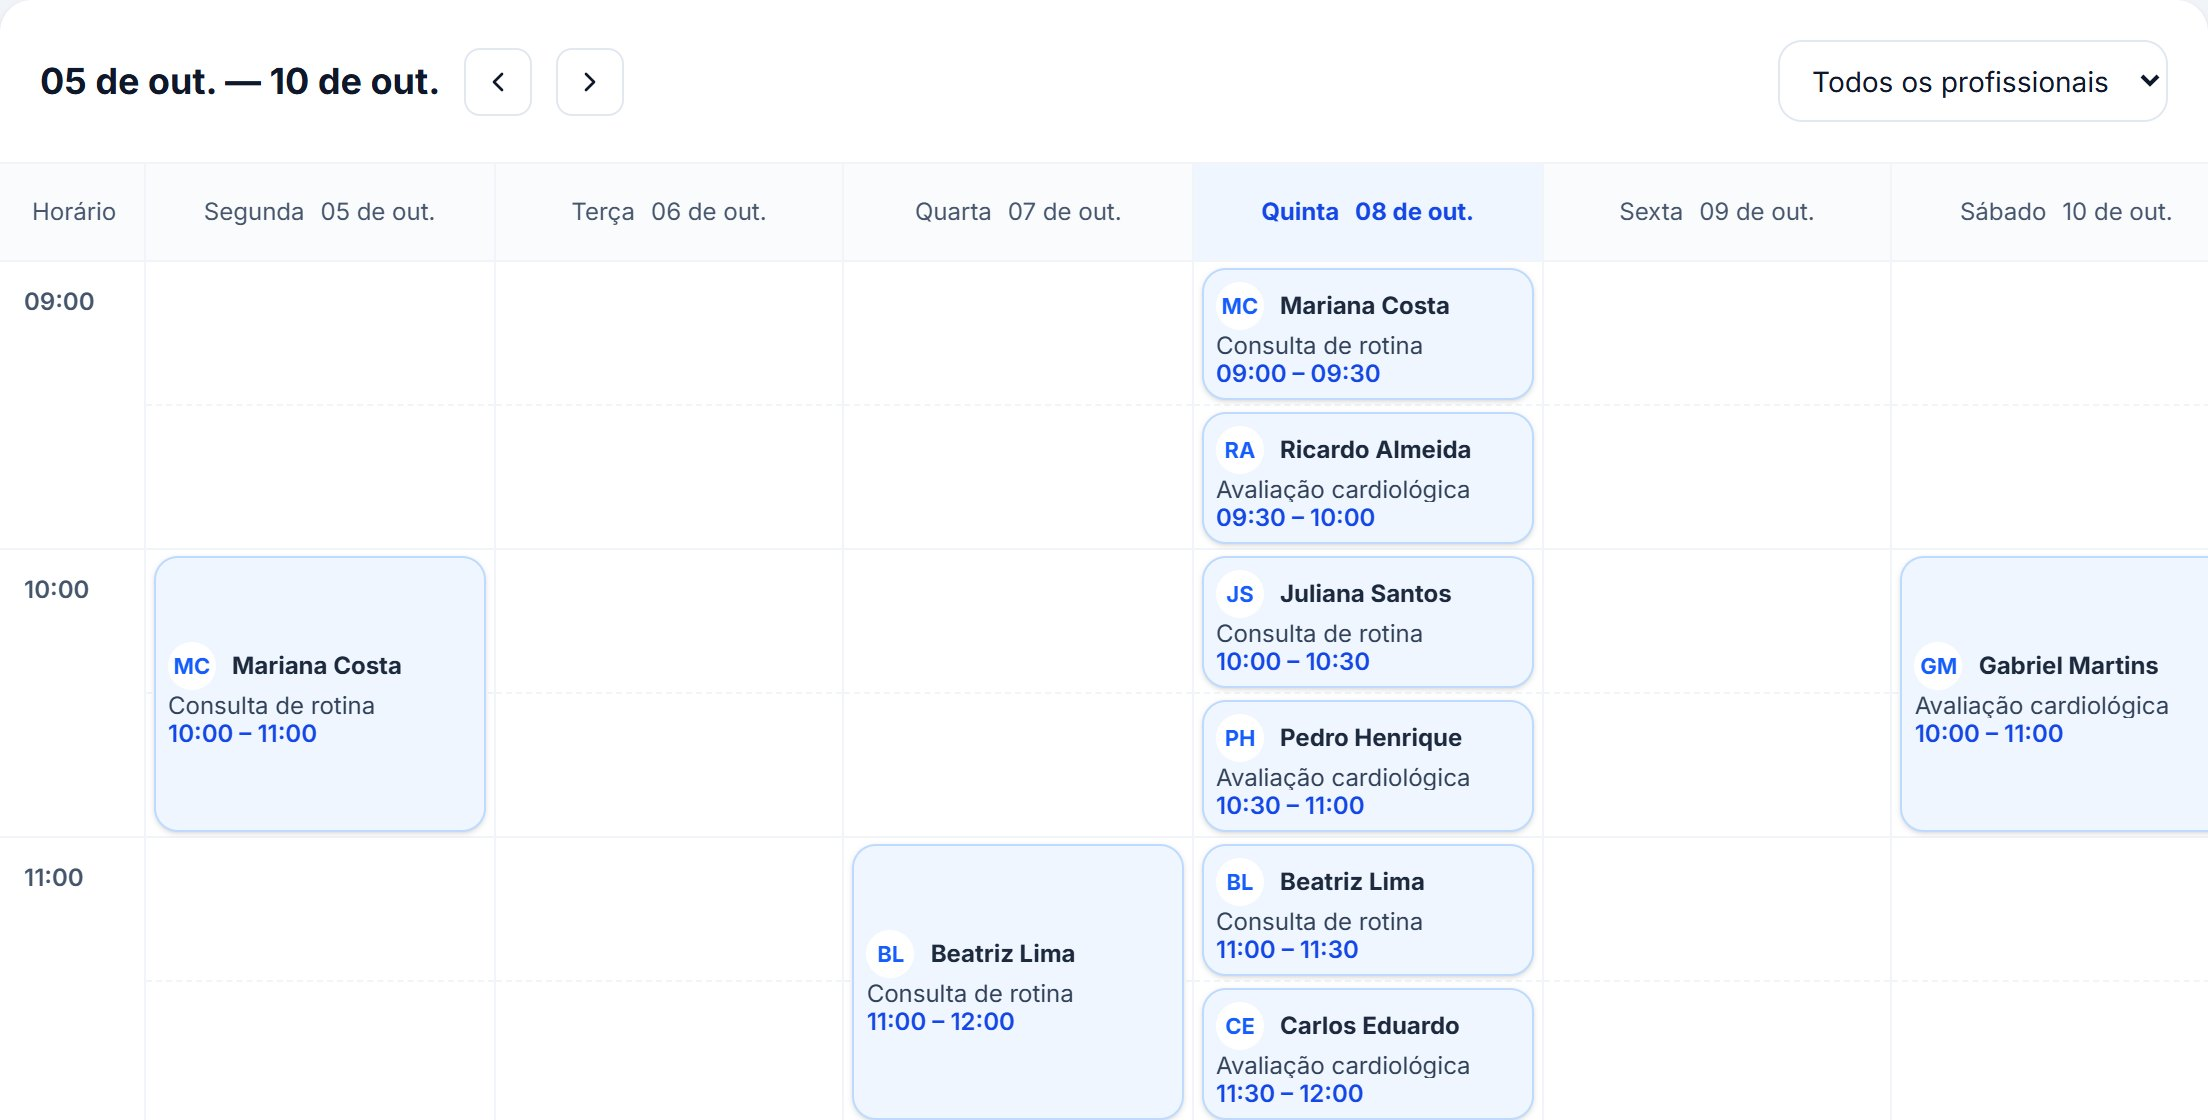
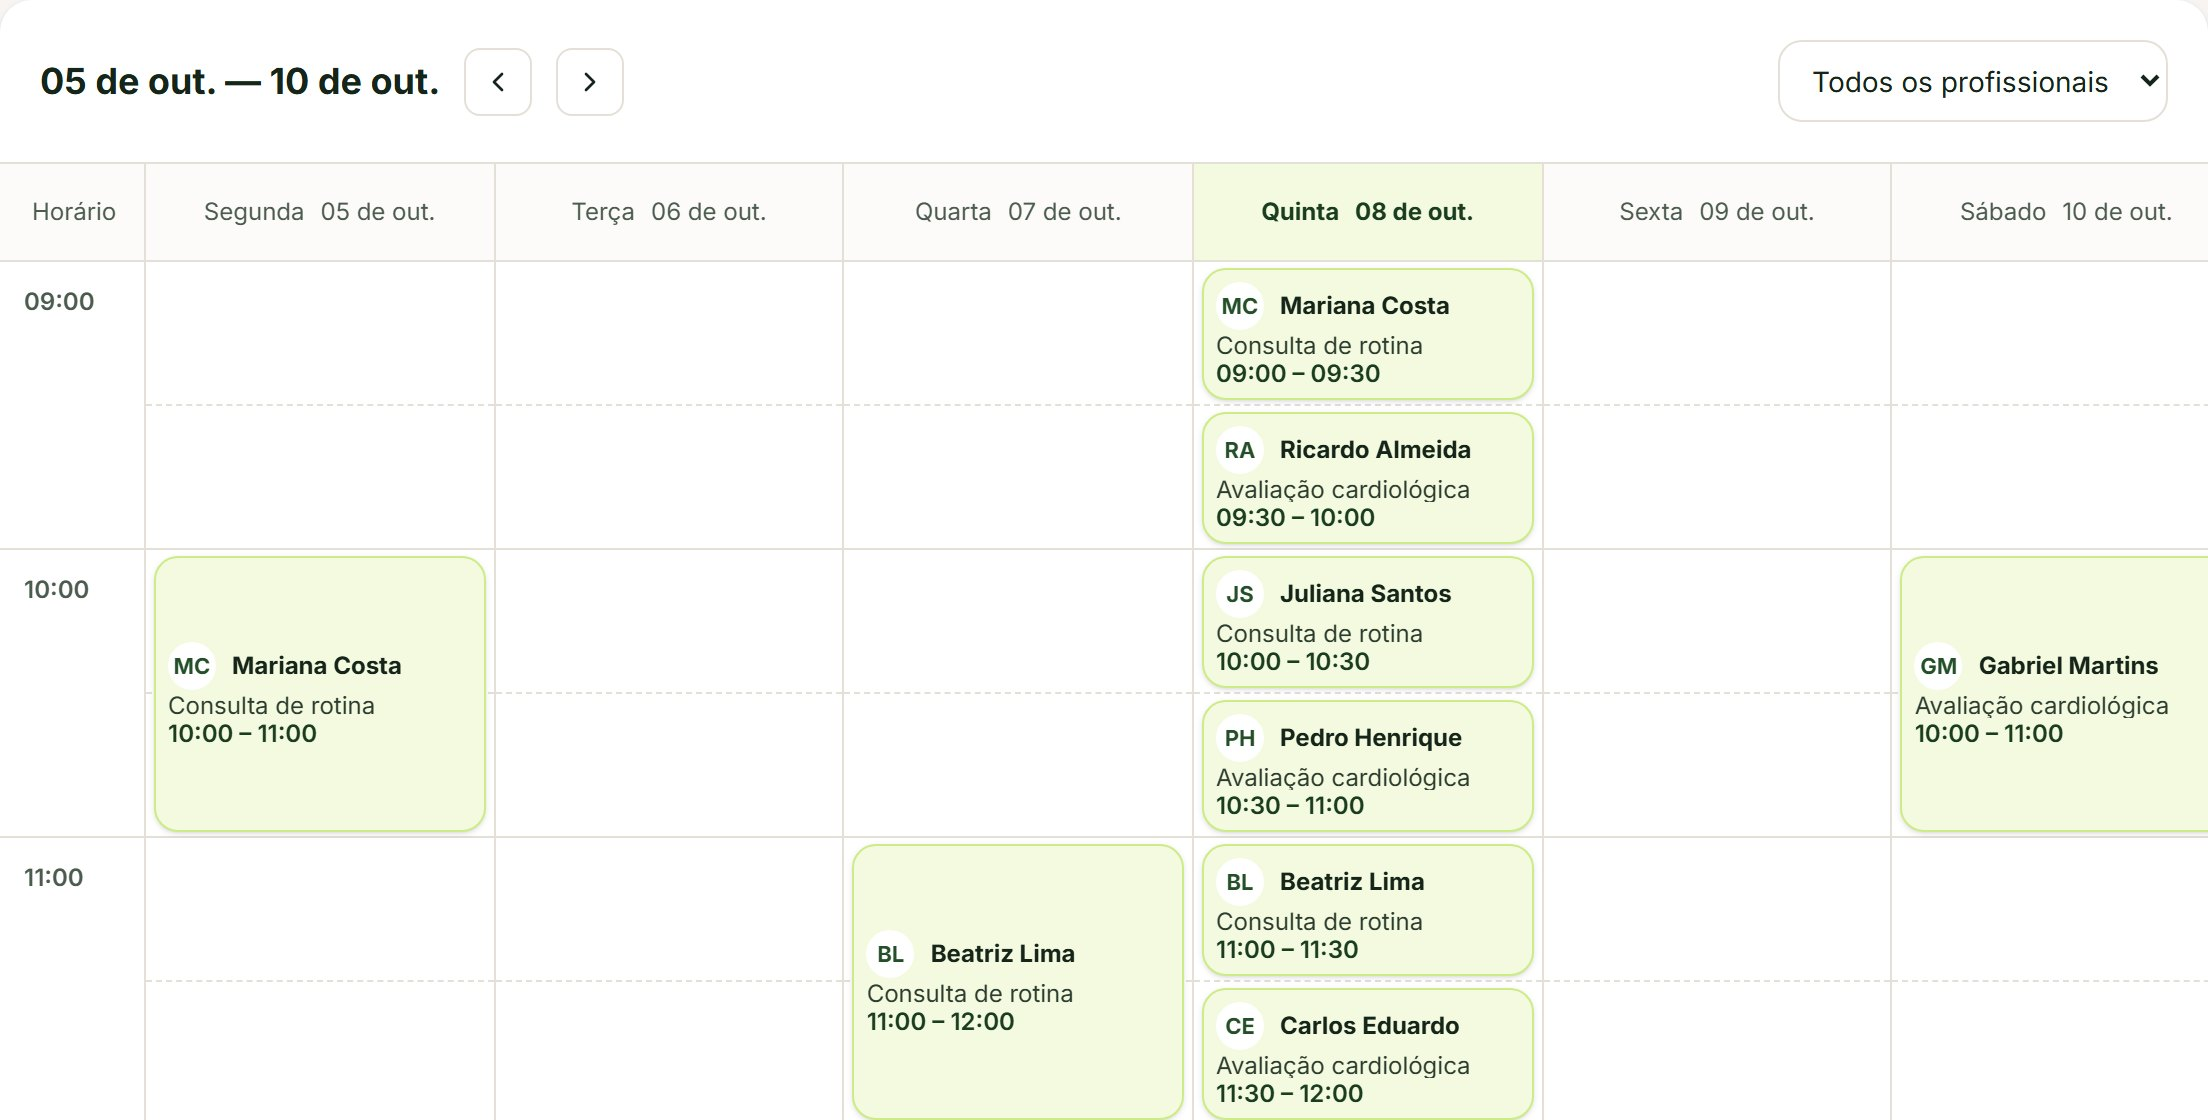
docs: capa e capturas com a paleta nova, etiqueta de status verde e guia de estilo atualizado

Changed region(s): [[0.375, 0.125, 0.7188, 1.0], [0.0625, 0.4688, 0.2188, 0.75], [0.8438, 0.4688, 1.0, 0.75]]

diff --git a/AGENTS.md b/AGENTS.md
@@ -7,9 +7,9 @@ Este documento define as regras de arquitetura, design, padrões de código e di
 - **Backend:** Go (Golang), PostgreSQL, Arquitetura Limpa (Clean Architecture).
 - **Estilo Visual (Design System):** 
   - Interface limpa estilo *Clean Medical / Enterprise*.
-  - Fundo geral em tons de cinza claro/gelo (`bg-slate-100`).
+  - Fundo geral em Milk White (`bg-canvas`, `#F7F4F1`).
   - Containers, cartões e tabelas brancos com bordas arredondadas pronunciadas (`rounded-2xl`) e sombras suaves (`shadow-sm`).
-  - Cores semânticas focadas em `slate` (textos), `blue` (ações principais) e badges coloridas suaves para status operacionais.
+  - Paleta da marca em tokens, definidos em `frontend/src/app/globals.css`: `brand-*` (Forest Green `#244F28` nas ações principais, Soft Lime `#E3FAA5` nos blocos suaves), `accent` (Electric Lime `#D3FF5B`, só para destaques), `ink` e `muted` (textos) e `line` (bordas). Badges de status mantêm cores semânticas (rose, amber, emerald, violet).
 
 ## 2. Padrões de Código e Boas Práticas (Frontend - Next.js/TypeScript)
 - **Tipagem Estrita:** Evite o uso de `any`. Todas as entidades (Pacientes, Agendamentos, Profissionais, Fila) devem possuir interfaces ou types bem definidos.
@@ -43,6 +43,6 @@ Este documento define as regras de arquitetura, design, padrões de código e di
 ## 6. Diretrizes de Refatoração
 Sempre que for solicitado a revisar ou refatorar o código, siga rigorosamente esta ordem de prioridade:
 1. **Legibilidade e Clean Code:** Funções e componentes devem ser coesos, pequenos e fáceis de ler.
-2. **Consistência Visual:** Respeite o Design System estabelecido (cantos arredondados, paleta `slate`/`blue`, espaçamentos consistentes).
+2. **Consistência Visual:** Respeite o Design System estabelecido (cantos arredondados, tokens da paleta em `globals.css`, espaçamentos consistentes; não use classes cruas `slate-*` ou `blue-*`).
 3. **Tipagem e Segurança:** Garanta que nenhuma alteração quebre os tipos do TypeScript ou introduza comportamentos indesejados nas requisições da API.
 4. **Performance e Acessibilidade:** Valide semântica HTML, uso correto de Server/Client components e eficiência de renderização.

diff --git a/README.md b/README.md
@@ -12,7 +12,7 @@
 </p>
 
 <p align="center">
-  <img src="https://img.shields.io/badge/status-demonstra%C3%A7%C3%A3o%20local-3b82f6?style=flat-square" alt="Status: demonstração local" />
+  <img src="https://img.shields.io/badge/status-demonstra%C3%A7%C3%A3o%20local-244f28?style=flat-square" alt="Status: demonstração local" />
   <img src="https://img.shields.io/badge/ano-2026-64748b?style=flat-square" alt="Ano: 2026" />
 </p>
 
